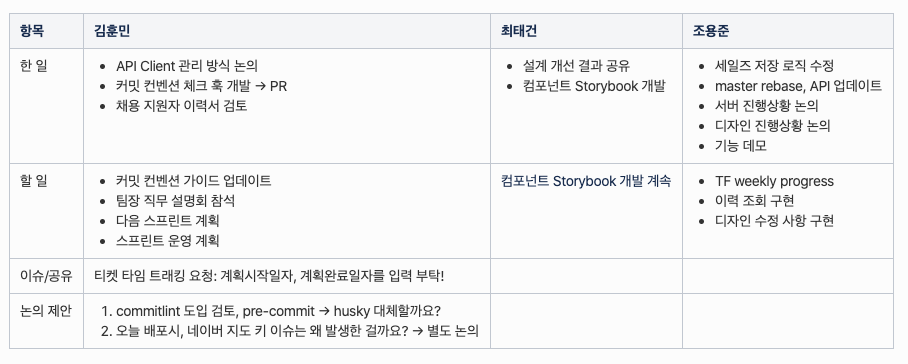
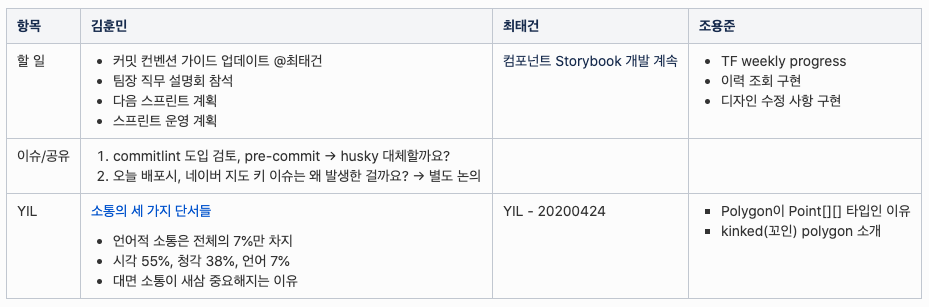
데일리 미팅 가이드 새버전 업데이트

Changed region(s): [[0.0, 0.0, 1.0, 0.9967]]

diff --git a/daily-meeting/index.md b/daily-meeting/index.md
@@ -1,44 +1,68 @@
 # 데일리 미팅 가이드
 
-
-
 ## 01. 데일리 미팅의 목표
 
-데일리 미팅은 매일, 업무 진행 상태를 확인하고 조율하는 자리입니다. 우리가 하는 일은 매우 불확실해서 해보기 전에는 알 수 없는 것들로 가득합니다. 그래서 일을 진행하면서 알게 된 사실을 계속 공유하고 업무를 조정해야 합니다. 데일리 미팅은 참여자가 자신의 정보를 공유하고 빨리 자신이 겪고 있는 문제를 드러내서 동료와 협력하도록 돕는 자리입니다. 프로세스에 매몰되지 않기 위해서 미팅은 가능한 짧게(10분 - 20분 정도) 끝을 냅니다.
+데일리 미팅은 매일, 업무 진행 상태를 확인하고 조율하는 자리입니다. 우리가 하는 일은 매우 불확실해서 해보기 전에는 알 수 없는 것들로 가득합니다. 그래서 일을 진행하면서 알게 된 사실을 계속 공유하고 업무를 조정해야 합니다.
 
+데일리 미팅은 구성원이 자신의 업무를 공유하고 빨리 문제를 드러내서 동료와 협력하도록 돕는 자리입니다. 프로세스에 매몰되지 않기 위해서 미팅은 가능한 짧게(10분 - 20분 정도) 끝을 냅니다.
 
+## 02. 데일리 미팅의 함정
 
-## 2. 프로세스
+매일 하는 데일리 미팅은 잘못하면 지루한 요식행위로 느껴지기 쉽습니다. 그래서 구성원의 자발적 참여도와 논의의 집중력을 높일 수 있는 방안을 끊임없이 고민해야 합니다.
+
+우리 팀의 데일리 미팅 포맷은 이런 고민 위에 만들어졌고 계속 다듬어 가고 있습니다.
+
+## 03. 프로세스
 
 데일리 미팅은 아래의 단계로 진행을 합니다.
 
-1. 출근 직후
-   - 업무 계획
+1. 출근 직후 업무 계획
 2. 데일리 미팅
    - 체크인
    - 데일리 로그 리뷰
    - 미팅 개설
 
-### 1) 출근 직후
+### 1) 출근 직후 업무 계획
 
-#### 업무 계획
-
-출근을 하면 바로 위키의 데일리 로그 페이지에 자신이 어제 했고, 오늘 할 업무를 정리합니다. 업무와 관련 있는 사람을 할 일 옆에 태그를 달아서 알림을 줄 수도 있습니다. 공유를 해야하거나 함께 논의하고 싶은 내용도 입력을 해주세요.
+출근을 하면 바로 위키의 데일리 로그에 오늘 할 업무를 정리합니다. 우리 팀이 사용하는 포맷은 아래와 같습니다.
 
 ![daily-log-screenshot](./images/daily-log-screenshot.png)
 
+#### 할 일
+
+오늘 자신이 할 일을 적습니다. 자연스레 하루의 업무를 정리하는 습관을 만들어 줍니다. 업무 관련자를 위키에 태그로 입력을 하면 자동으로 업무 알림을 전달할 수도 있습니다.
+
+#### 이슈/공유
+
+잘 안 풀리는 문제, 공유하고 싶은 내용, 동료와 함께 논의하고 싶은 내용을 짧게 적습니다.
+
+#### YIL(Yesterday I Learned)
+
+어제 일을 하면서 새로 알게 되어 팀에 공유하고 싶은 내용을 적습니다. 가능하면 상세한 내용은 다른 장소에 적고, 데일리 로그에는 링크만 남깁니다.
+
 ### 2) 데일리 미팅
+
+#### 진행자 선정
+
+간단한 게임을 해서 데일리 미팅을 진행할 진행자를 선정합니다. 진행자는 정해진 시간 안에 데일리 미팅을 효과적으로 할 수 있게 유도해야 합니다.
+
+이렇게 하면 데일리 미팅의 지루함을 덜 수 있고, 다양한 구성원이 프로세스 진행을 경험해 볼 수 있습니다. 우리 팀은 진행자를 선정할 때 [복불봅제비뽑기](https://apps.apple.com/kr/app/%EB%B3%B5%EB%B6%88%EB%B3%B5-%EC%A0%9C%EB%B9%84%EB%BD%91%EA%B8%B0/id627332548)를 이용합니다. 
 
 #### 체크인
 
-현재 상태를 5점 만점의 별점으로 공유합니다. 이 단계에서 두 가지 효과를 얻을 수 있습니다.
-
-1. 동료의 현재 상태를 읽고 조치를 할 수 있습니다.
-2. 어색함을 덜고, 참여하게 만듭니다.
+현재 상태를 5점 만점의 별점으로 공유합니다. 이 단계에서 두 가지 효과를 얻을 수 있습니다. 동료의 현재 감정을 읽을 수 있습니다. 어색함을 덜고, 참여하게 만듭니다.
 
 #### 데일리 로그 리뷰
 
-오늘의 데일리 로그를 함께 2분간 정독합니다. <u>"동료가 오늘 할 일 중에서 나와 관계 있는 일"</u>이 있는지, 잘 살펴주세요. 로그를 정독한 후에는 한 명씩 순서대로 돌아가면서 동료에게 질문을 받습니다. 이 때 질문을 하는 사람은 도움을 제안을 할 수 있으며, <u>5분 이내</u>로 짧은 논의를 할 수 있습니다.
+오늘의 데일리 로그를 함께 2분간 정독합니다. "동료가 오늘 할 일 중에서 나와 관계 있는 일"이 있는지 살펴봅니다. 로그를 정독했으면 한 명씩 돌아가면서 아래의 순서로 진행을 합니다.
+
+1. 질문 받기 → "저한테 질문할 분이 계신가요?"라고 말하기
+2. 질문 외에 도움이나 논의, 제안도 가능
+3. 모든 논의는 3분 이내로 진행 → 길어지면 별도 미팅 개설
+4. 질문이 끝나면 이슈/공유
+5. 이슈/공유가 끝나면 YIL 공유
+
+이 때 질문을 받는 사람이 프로세스 주도권을 갖도록 만들어야 합니다. 그래야 참여도와 집중도를 높일 수 있습니다.
 
 #### 미팅 개설
 
